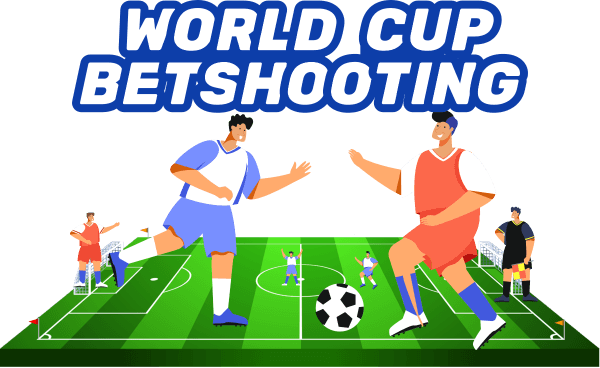
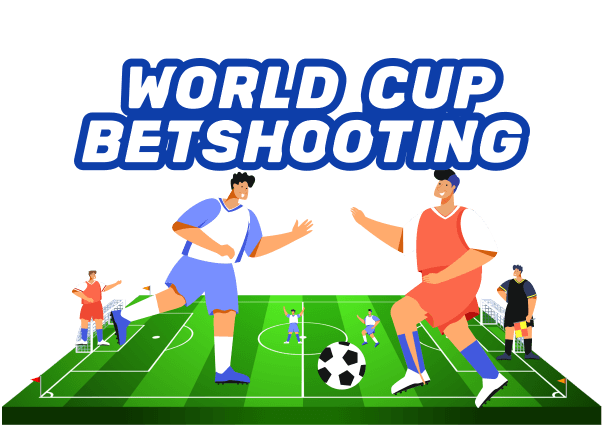
feat: update ui

diff --git a/packages/front-end/src/pages/Home/MyPartIn/index.module.less b/packages/front-end/src/pages/Home/MyPartIn/index.module.less
@@ -2,8 +2,8 @@
   display: flex;
   flex-direction: column;
   .banner {
-    width: 100vw;
-    height: 347px;
+    width: 375px;
+    height: 305px;
     background: url('~@/assets/img/banner-my-zh.png') center no-repeat;
     background-size: cover;
     z-index: 10;

diff --git a/packages/front-end/src/pages/Match/components/Info/index.module.less b/packages/front-end/src/pages/Match/components/Info/index.module.less
@@ -68,7 +68,7 @@
       width: 68px;
       height: 32px;
       display: block;
-      background: url('@/assets/img/icon-vs.png');
+      background: url('@/assets/img/icon-vs.png') no-repeat;
       background-size: 100%;
     }
     > div {

diff --git a/packages/front-end/src/pages/Home/index.module.less b/packages/front-end/src/pages/Home/index.module.less
@@ -29,6 +29,7 @@
       &::before {
         display: none;
       }
+      margin-bottom: 0 !important;
     }
 
     .ant-tabs-tab {

diff --git a/packages/front-end/src/pages/Match/components/MyBet/index.module.less b/packages/front-end/src/pages/Match/components/MyBet/index.module.less
@@ -1,4 +1,5 @@
 .my {
+  margin-top: 20px;
   .item {
     padding: 20px 0;
     // border-bottom: solid 1px #293453;
